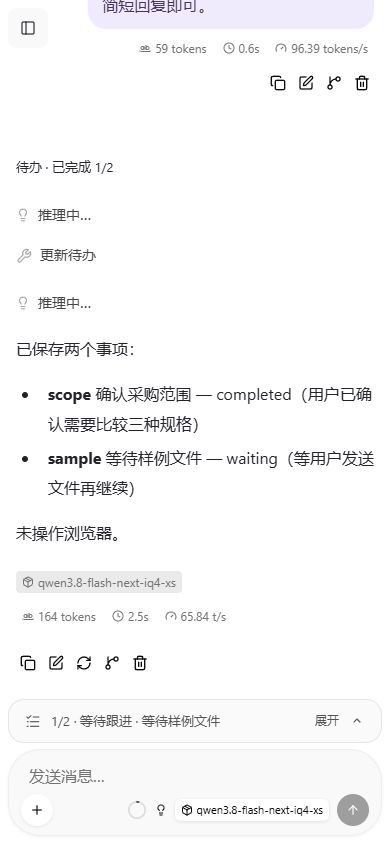
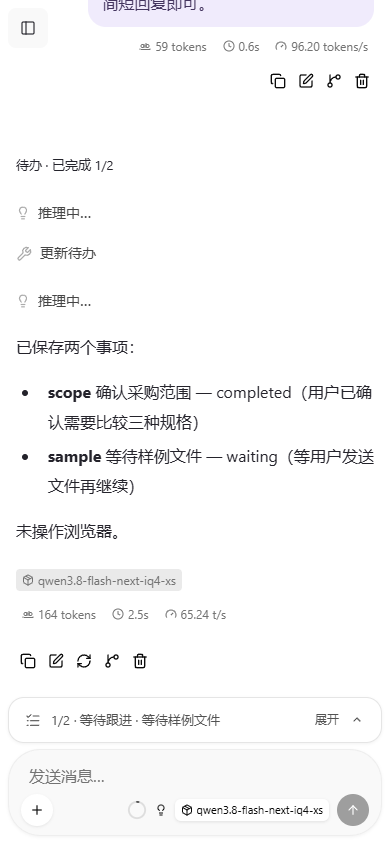
[GUI] Keep task progress and expanded checklist in one card

diff --git a/deploy/public-chat/harness/files/server/tests/task-ui-browser.test.js b/deploy/public-chat/harness/files/server/tests/task-ui-browser.test.js
@@ -83,7 +83,7 @@ test('saved tool events drive the entry; reload restores its panel; completion r
     } finally { await s.close(); }
 });
 
-test('upward disclosure has one fixed toggle, keeps the composer usable, and isolates conversations', async () => {
+test('one task card expands upward with a fixed toggle, usable composer, and isolated conversations', async () => {
     const s = await setup('task-ui-layout');
     const { page } = s;
     const positions = () => page.evaluate(() => {
@@ -113,11 +113,19 @@ test('upward disclosure has one fixed toggle, keeps the composer usable, and iso
         await frame(page);
         await page.evaluate(() => { document.getElementById('chat-container').scrollTop = 300; });
         const initial = await positions();
+        const compact = await page.locator('#task-card').boundingBox();
         await page.locator('#task-entry').click();
         await frame(page);
         assert.deepEqual(await positions(), initial, 'opening upward must not move the trigger, composer or reading position');
         const panel = await page.locator('#task-panel').boundingBox();
-        assert.ok(panel.y < initial.entry.y && panel.y + panel.height <= initial.entry.y - 4);
+        assert.ok(panel.y < initial.entry.y && Math.abs(panel.y + panel.height - initial.entry.y) < 1, 'list and progress row meet with no gap');
+        const card = await page.locator('#task-card').boundingBox();
+        assert.equal(card.x, compact.x);
+        assert.equal(card.width, compact.width);
+        assert.equal(card.y + card.height, compact.y + compact.height, 'the same card grows upward from its fixed bottom edge');
+        assert.ok(card.y < compact.y && Math.abs(card.height - compact.height - panel.height) < 1);
+        assert.equal(await page.locator('#task-card > #task-entry').count(), 1);
+        assert.equal(await page.locator('#task-card > #task-panel').count(), 1);
         assert.equal(await page.locator('#conversation-tasks button').count(), 1, 'only one expand/collapse control');
         assert.equal(await page.locator('#task-panel').evaluate(node => node.tagName), 'SECTION');
         assert.equal(await page.locator(':modal').count(), 0);
@@ -158,7 +166,7 @@ test('upward disclosure has one fixed toggle, keeps the composer usable, and iso
             await frame(page);
             assert.deepEqual(await positions(), closed);
             const bounds = await page.locator('#task-panel').boundingBox();
-            assert.ok(bounds.y >= 0 && bounds.y + bounds.height < closed.entry.y);
+            assert.ok(bounds.y >= 0 && Math.abs(bounds.y + bounds.height - closed.entry.y) < 1);
             assert.equal(await page.locator('#task-panel').evaluate(node => node.scrollWidth > node.clientWidth), false);
             await page.locator('#user-input').fill('line\n'.repeat(8));
             await page.locator('#user-input').dispatchEvent('input');
@@ -179,7 +187,7 @@ test('upward disclosure has one fixed toggle, keeps the composer usable, and iso
         await frame(page);
         const panned = await page.locator('#task-panel').boundingBox();
         const entry = await page.locator('#task-entry').boundingBox();
-        assert.ok(panned.y >= 96 && panned.y + panned.height < entry.y);
+        assert.ok(panned.y >= 96 && Math.abs(panned.y + panned.height - entry.y) < 1);
         await page.evaluate(() => {
             delete visualViewport.height;
             delete visualViewport.offsetTop;

diff --git a/deploy/public-chat/harness/files/public/css/components/tasks.css b/deploy/public-chat/harness/files/public/css/components/tasks.css
@@ -1,19 +1,29 @@
-.conversation-tasks { position: relative; max-width: var(--reading-width); margin: 0 auto 6px; }
+.conversation-tasks { position: relative; height: 46px; max-width: var(--reading-width); margin: 0 auto 6px; }
 .conversation-tasks[hidden], .task-panel[hidden] { display: none; }
-.task-entry {
-    pointer-events: auto;
+.task-card {
+    position: absolute;
+    inset: auto 0 0;
     display: flex;
+    flex-direction: column-reverse;
+    pointer-events: auto;
+    border: 1px solid #e5e5e5;
+    border-radius: 16px;
+    background: #fff;
+    box-shadow: 0 1px 3px #0000000d;
+    overflow: hidden;
+}
+.task-entry {
+    display: flex;
+    flex: none;
     align-items: center;
     gap: 10px;
     width: 100%;
     min-height: 44px;
     margin: 0;
     padding: 10px 16px;
-    border: 1px solid #e5e5e5;
-    border-radius: 16px;
-    background: #fafafaf0;
-    -webkit-backdrop-filter: blur(12px);
-    backdrop-filter: blur(12px);
+    border: 0;
+    border-radius: 0;
+    background: transparent;
     color: #525252;
     font-size: 13px;
     text-align: left;
@@ -26,21 +36,12 @@
 .task-entry-chevron { transition: transform 140ms ease; }
 .task-entry[aria-expanded='true'] .task-entry-chevron { transform: rotate(180deg); }
 .task-panel {
-    position: absolute;
-    inset: auto 0 calc(100% + 6px);
     display: flex;
     flex-direction: column;
-    pointer-events: auto;
-    border: 1px solid #e5e5e5;
-    border-radius: 16px;
-    background: #fff;
+    min-height: 0;
+    border-bottom: 1px solid #eeeeee;
     color: #262626;
-    box-shadow: 0 -4px 24px #00000012;
-    overflow: hidden;
-    transform-origin: bottom;
 }
-.task-panel:not([hidden]) { animation: task-rise 140ms ease-out; }
-@keyframes task-rise { from { opacity: 0; transform: translateY(6px); } to { opacity: 1; transform: translateY(0); } }
 .task-panel-list {
     min-height: 0;
     max-height: max(0px, min(360px, calc(var(--app-height, 100dvh) - var(--composer-height, 180px) - 16px)));
@@ -61,6 +62,6 @@
 .task-item-title { font-size: 14px; line-height: 22px; overflow-wrap: anywhere; }
 .task-item-status { flex: none; font-size: 11px; color: #737373; }
 .task-item-note { margin: 5px 0 0; font-size: 12px; line-height: 20px; color: #737373; overflow-wrap: anywhere; white-space: pre-wrap; }
-.task-entry:focus-visible { outline: 2px solid #737373; outline-offset: 2px; }
+.task-entry:focus-visible { outline: 2px solid #737373; outline-offset: -3px; }
 .task-panel-list:focus-visible { outline: 2px solid #737373; outline-offset: -3px; border-radius: 14px; }
-@media (prefers-reduced-motion: reduce) { .task-panel:not([hidden]) { animation: none; } .task-entry-chevron { transition: none; } }
+@media (prefers-reduced-motion: reduce) { .task-entry-chevron { transition: none; } }

diff --git a/deploy/public-chat/harness/files/public/chat.html b/deploy/public-chat/harness/files/public/chat.html
@@ -94,15 +94,17 @@
         <main class="chat-container" id="chat-container" aria-label="对话内容"></main>
         <footer class="input-area">
             <div id="conversation-tasks" class="conversation-tasks" hidden>
-                <button type="button" id="task-entry" class="task-entry" hidden aria-expanded="false" aria-controls="task-panel">
-                    <svg viewBox="0 0 24 24" fill="none" stroke="currentColor" stroke-width="1.6" stroke-linecap="round" stroke-linejoin="round" aria-hidden="true"><path d="m3 6 2 2 4-4M12 6h9M3 13h2M8 13h13M3 20h2M8 20h13" /></svg>
-                    <span id="task-entry-label" aria-live="polite" aria-atomic="true"></span>
-                    <span id="task-entry-action">展开</span>
-                    <svg class="task-entry-chevron" viewBox="0 0 24 24" fill="none" stroke="currentColor" stroke-width="1.6" aria-hidden="true"><path d="m7 14 5-5 5 5" /></svg>
-                </button>
-                <section id="task-panel" class="task-panel" aria-label="本次会话待办" hidden>
-                    <ul id="task-panel-list" class="task-panel-list" aria-label="待办清单" tabindex="0"></ul>
-                </section>
+                <div id="task-card" class="task-card">
+                    <button type="button" id="task-entry" class="task-entry" hidden aria-expanded="false" aria-controls="task-panel">
+                        <svg viewBox="0 0 24 24" fill="none" stroke="currentColor" stroke-width="1.6" stroke-linecap="round" stroke-linejoin="round" aria-hidden="true"><path d="m3 6 2 2 4-4M12 6h9M3 13h2M8 13h13M3 20h2M8 20h13" /></svg>
+                        <span id="task-entry-label" aria-live="polite" aria-atomic="true"></span>
+                        <span id="task-entry-action">展开</span>
+                        <svg class="task-entry-chevron" viewBox="0 0 24 24" fill="none" stroke="currentColor" stroke-width="1.6" aria-hidden="true"><path d="m7 14 5-5 5 5" /></svg>
+                    </button>
+                    <section id="task-panel" class="task-panel" aria-label="本次会话待办" hidden>
+                        <ul id="task-panel-list" class="task-panel-list" aria-label="待办清单" tabindex="0"></ul>
+                    </section>
+                </div>
             </div>
             <div class="input-container">
                 <div class="composer-attachment" id="composer-attachment" hidden>

diff --git a/deploy/public-chat/harness/README.md b/deploy/public-chat/harness/README.md
@@ -42,15 +42,17 @@ npm run check
 
 输入框上方只有一行进度，普通问答没有清单时不显示。入口读取当前会话分支中最近一次已保存的 `task_update` 清单；正在接收的参数、保存失败和模型口头计划都不会创建入口。
 
-- 同一入口只有「展开 / 收起」两种状态。清单从入口上方向上出现，入口和输入框位置不动；短清单按内容定高，长清单在剩余可用高度内滚动。移除了旧版半屏/全屏档位、拖动把手、关闭按钮及遮罩。
+- 待办进度与清单属于同一张卡片，共用一个外框、圆角和背景，内部用分隔线区分清单与底部进度。只有「展开 / 收起」两种状态，整张卡片从固定底边向上增高，入口和输入框位置不动；短清单按内容定高，长清单在剩余可用高度内滚动。移除了旧版半屏/全屏档位、拖动把手、关闭按钮及遮罩。
 - 展开时仍可输入、发送和停止，点击聊天区域也不收起；Tab 可从入口经过清单进入输入框。在入口或清单内按 Escape 可收起，焦点返回入口。
 - 进度更新只修改清单和进度文字，不自动展开面板，也不移动用户阅读的位置。输入键盘弹起后入口仍保持一行，长标题截断显示。
 - 未完成和等待事项跨轮保留，停止显示「已暂停」，出错显示「已中断」。完成后当轮保留完成数量，下次发送新问题时入口隐藏，历史消息中的清单仍可展开。
 - 展开/收起偏好随当前浏览器中的会话保存，切换会话各自恢复；旧的高度偏好会移除，刷新打开详情不会重新调用模型或工具。清空待办时关闭入口和面板。
 
-2026-11-13 向上展开版本的待办与生成恢复测试 12 项、布局检查 12 项通过。覆盖 320、390、768、1440px 宽度、键盘高度与 VisualViewport 平移、长清单滚动、无效和分片工具调用、停止、刷新、会话隔离、完成后隐藏，以及展开时输入/发送/停止、固定入口位置、旧展开偏好迁移。检查通过 108 个 JavaScript 文件和 141 个静态引用。手机交互使用 Chromium 仿真，未做 iOS/Android 真机验收。
+2026-11-13 同容器展开版本的待办与生成恢复测试 12 项、布局检查 12 项通过。覆盖 320、390、768、1440px 宽度、键盘高度与 VisualViewport 平移、长清单滚动、无效和分片工具调用、停止、刷新、会话隔离、完成后隐藏，以及展开时输入/发送/停止、固定入口位置、单张卡片连续边界、旧展开偏好迁移。检查通过 108 个 JavaScript 文件和 141 个静态引用。手机交互使用 Chromium 仿真，未做 iOS/Android 真机验收。
 
 公网实际 Qwen 的清单创建、完成、下一轮隐藏和刷新恢复结果，以及已部署文件校验值见 [task-ui-verification.json](task-ui-verification.json)。截图：[单行入口](images/task-entry-mobile.png) · [向上展开的清单](images/task-sheet-mobile.png)。
+
+![同一张待办卡片展开后的公网截图](images/task-card.png)
 
 ## 验证范围
 

diff --git a/deploy/public-chat/harness/files/README.md b/deploy/public-chat/harness/files/README.md
@@ -4,7 +4,7 @@
 
 通用对话和多步骤任务共用执行循环，图表按用户需求渲染。多步骤任务可调用 `task_update` 保存目标、进度、有效方法及下一步。清单按会话和当前消息分支传递，最多 32 项，支持待处理、进行中、待跟进、已完成。每次更新在 SQLite 提交后才发送事件，浏览器收到后保存到原会话；较早的对话压缩后会重新注入当前清单。简单问答可以直接回答。
 
-已保存的待办在输入框上方显示一行会话进度，默认收起。同一个入口切换「展开 / 收起」，清单从入口上方向上出现，短清单随内容定高，长清单在可用空间内滚动。输入框和入口位置保持不动，展开时仍能输入、发送和停止；没有遮罩或额外的高度档位。进度更新不自动打开面板，也不移动正在阅读的位置。等待和未完成事项跨轮保留，停止后显示暂停；全部完成的清单在下一次提问时从入口隐藏，历史消息仍可展开查看。每个会话分别保存展开状态，刷新可恢复；打开面板不会重新执行任务。验证：`pnpm test:tasks-ui`。
+已保存的待办在输入框上方显示一行会话进度，默认收起。待办进度与清单属于同一张卡片，共用外框、圆角和背景；同一个入口切换「展开 / 收起」，整张卡片向上增高，短清单随内容定高，长清单在可用空间内滚动。输入框和入口位置保持不动，展开时仍能输入、发送和停止；没有遮罩或额外的高度档位。进度更新不自动打开面板，也不移动正在阅读的位置。等待和未完成事项跨轮保留，停止后显示暂停；全部完成的清单在下一次提问时从入口隐藏，历史消息仍可展开查看。每个会话分别保存展开状态，刷新可恢复；打开面板不会重新执行任务。验证：`pnpm test:tasks-ui`。
 
 压缩历史时保留成功结果、有效工具用法与待核验操作，省略旧失败尝试的参数和报错细节。当轮失败仍返回模型用于修正。原始会话保存在浏览器 IndexedDB，压缩只改变下一次请求的上下文。发送前先保存准备状态，关页后可重建尚未提交的请求；已经提交的生成只通过原生成编号续传。服务端重启导致续传过期时，返回最近 24 小时内持久化的待办检查点供继续处理，完整已收取历史以浏览器保存记录为准。
 

diff --git a/README.md b/README.md
@@ -17,7 +17,7 @@ The current fork uses Strata 0.2.10 / engine 0.1.56 with native Q4 MTP and a 57K
 
 ## 11 月 13 日修复
 
-- 公网 IVYUN 的会话待办从输入框上方的入口向上展开，同一按钮切换「展开 / 收起」，没有遮罩或高度档位；展开时可继续输入、发送和停止。已保存的进度跨轮保留，刷新恢复展开状态；全部完成后下次提问隐藏入口，历史仍可查看。覆盖停止、无效/未完成工具参数、会话切换、键盘视口和滚动位置。[源码、交互说明与验证](deploy/public-chat/harness/README.md#会话待办界面)
+- 公网 IVYUN 的会话待办进度与清单合为同一张卡片，卡片向上展开，同一按钮切换「展开 / 收起」，没有遮罩或高度档位；展开时可继续输入、发送和停止。已保存的进度跨轮保留，刷新恢复展开状态；全部完成后下次提问隐藏入口，历史仍可查看。覆盖停止、无效/未完成工具参数、会话切换、键盘视口和滚动位置。[源码、交互说明与验证](deploy/public-chat/harness/README.md#会话待办界面)
 - 公网 IVYUN 按通用助手运行，新增跨轮待办、压缩后的任务恢复、退出续传及旧失败尝试清理。100 项相关自动测试通过，真实 Qwen 与公网 110 轮历史回忆验证通过；9,000 次操作样例压缩至 116,103 字符。[源码更新包与验证数据](deploy/public-chat/harness/README.md)
 - 公网 IVYUN 补齐 SVG 预览和代码块复制。SVG 使用 Mermaid 同一套图内右上角菜单、展开及手机交互，支持 SVG、PNG 和源码下载；普通代码块复用同一操作栏。已完成 15 项专项浏览器检查、50 项现有回归以及 5 项公网真实模型检查。[源码变更、截图与验证记录](deploy/public-chat/svg-validation-20261113/README.md)
 - 替换停止请求的旧异常处理：引擎同时关闭或重启时，已关闭的输入管道和已清空的进程对象不会再次抛错。旧实现的两个异常均在本机复现。
